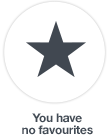
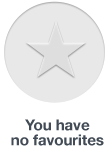
Visual tweaks

diff --git a/www/resources/sass/app.scss b/www/resources/sass/app.scss
@@ -3082,7 +3082,7 @@ x-floating {
 	}
 	.noFavourites {
 		background-image: url(../images/favs_no_badge@2x.png);
-		-webkit-background-size: 107px 136px;
+		-webkit-background-size: 107px 146px;
 	}
 	.favsAddedMsg {
 		background-image: url(../images/fav_added_icon@2x.png) !important;
